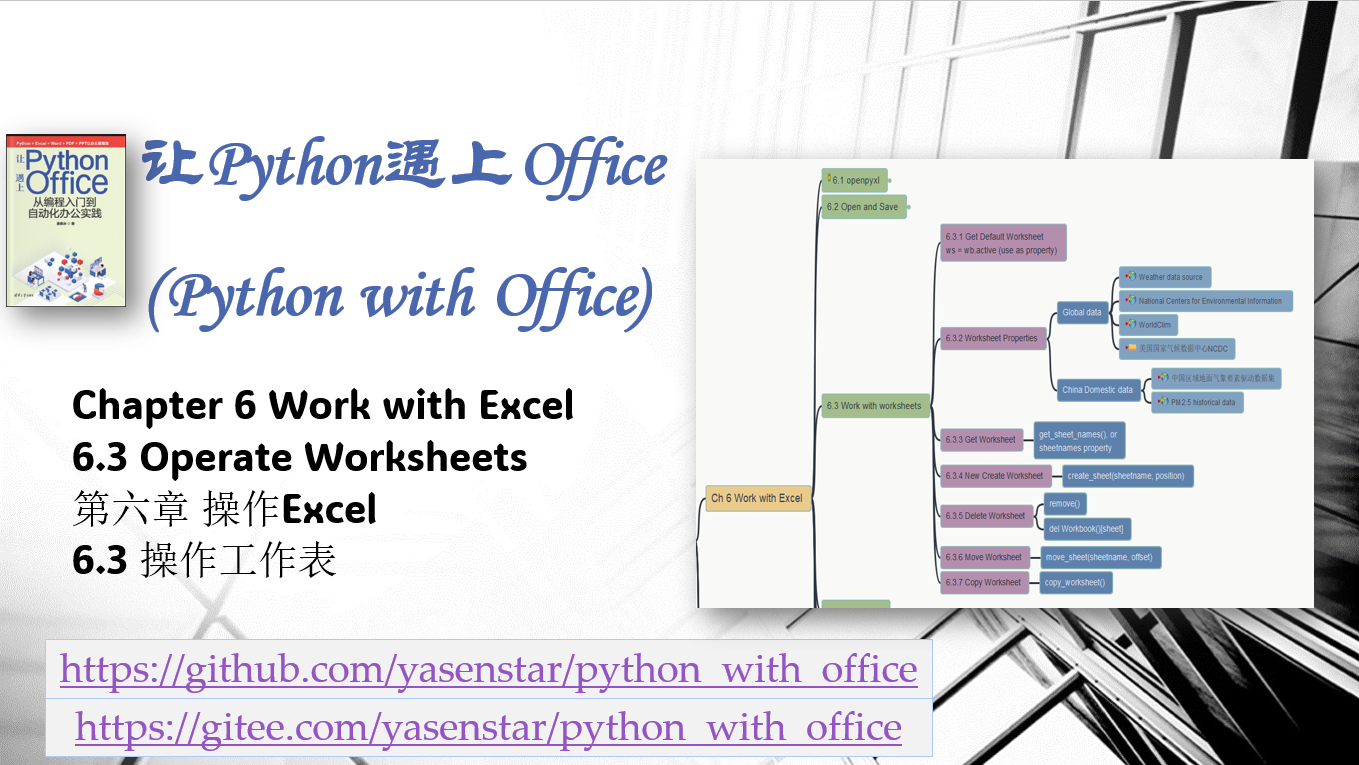
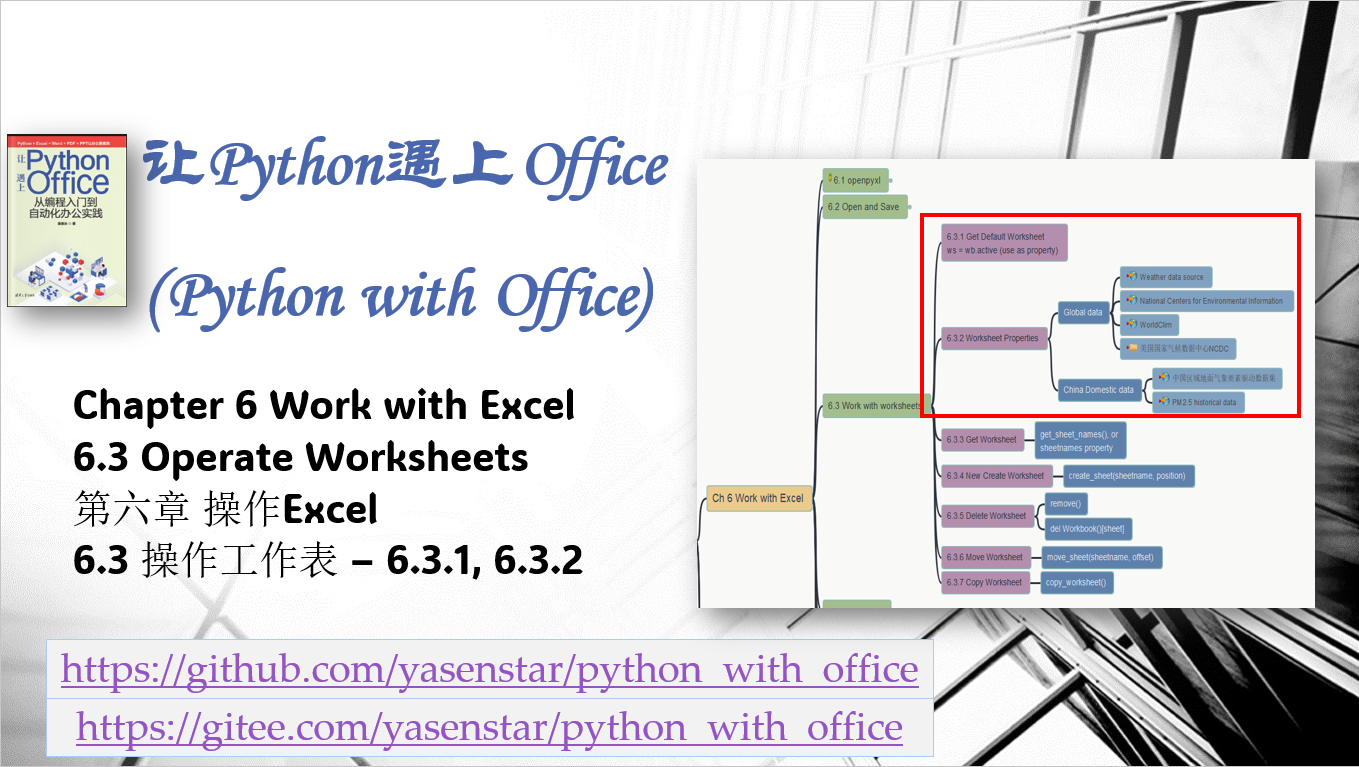
add 6-3(1)

diff --git a/part2_Use-Python-in-Office/ch06_work-with-excel/6-3_worksheets/6-3-2_ws-properties.py b/part2_Use-Python-in-Office/ch06_work-with-excel/6-3_worksheets/6-3-2_ws-properties.py
@@ -1,0 +1,14 @@
+from openpyxl import load_workbook
+wb = load_workbook("D:\\GitHub\\python_with_office\\part2_Use-Python-in-Office\\ch06_work-with-excel\\6-3_worksheets\\vehicle.xlsx")
+ws = wb.active
+print(ws.title)
+
+ws.title = "2017年12月份北美洲汽车产量"
+print(ws.title)
+
+print(ws.max_row)
+print(ws.max_column)
+print(ws.dimensions)
+print(ws.encoding)
+
+# wb.save("D:\\GitHub\\python_with_office\\part2_Use-Python-in-Office\\ch06_work-with-excel\\6-3_worksheets\\vehicle.xlsx")

diff --git a/part2_Use-Python-in-Office/ch06_work-with-excel/6-3_worksheets/6-3-1_default_ws.py b/part2_Use-Python-in-Office/ch06_work-with-excel/6-3_worksheets/6-3-1_default_ws.py
@@ -1,0 +1,5 @@
+from openpyxl import Workbook
+wb = Workbook()
+# ws = wb.active()
+ws = wb.active
+print(type(ws), ws)
